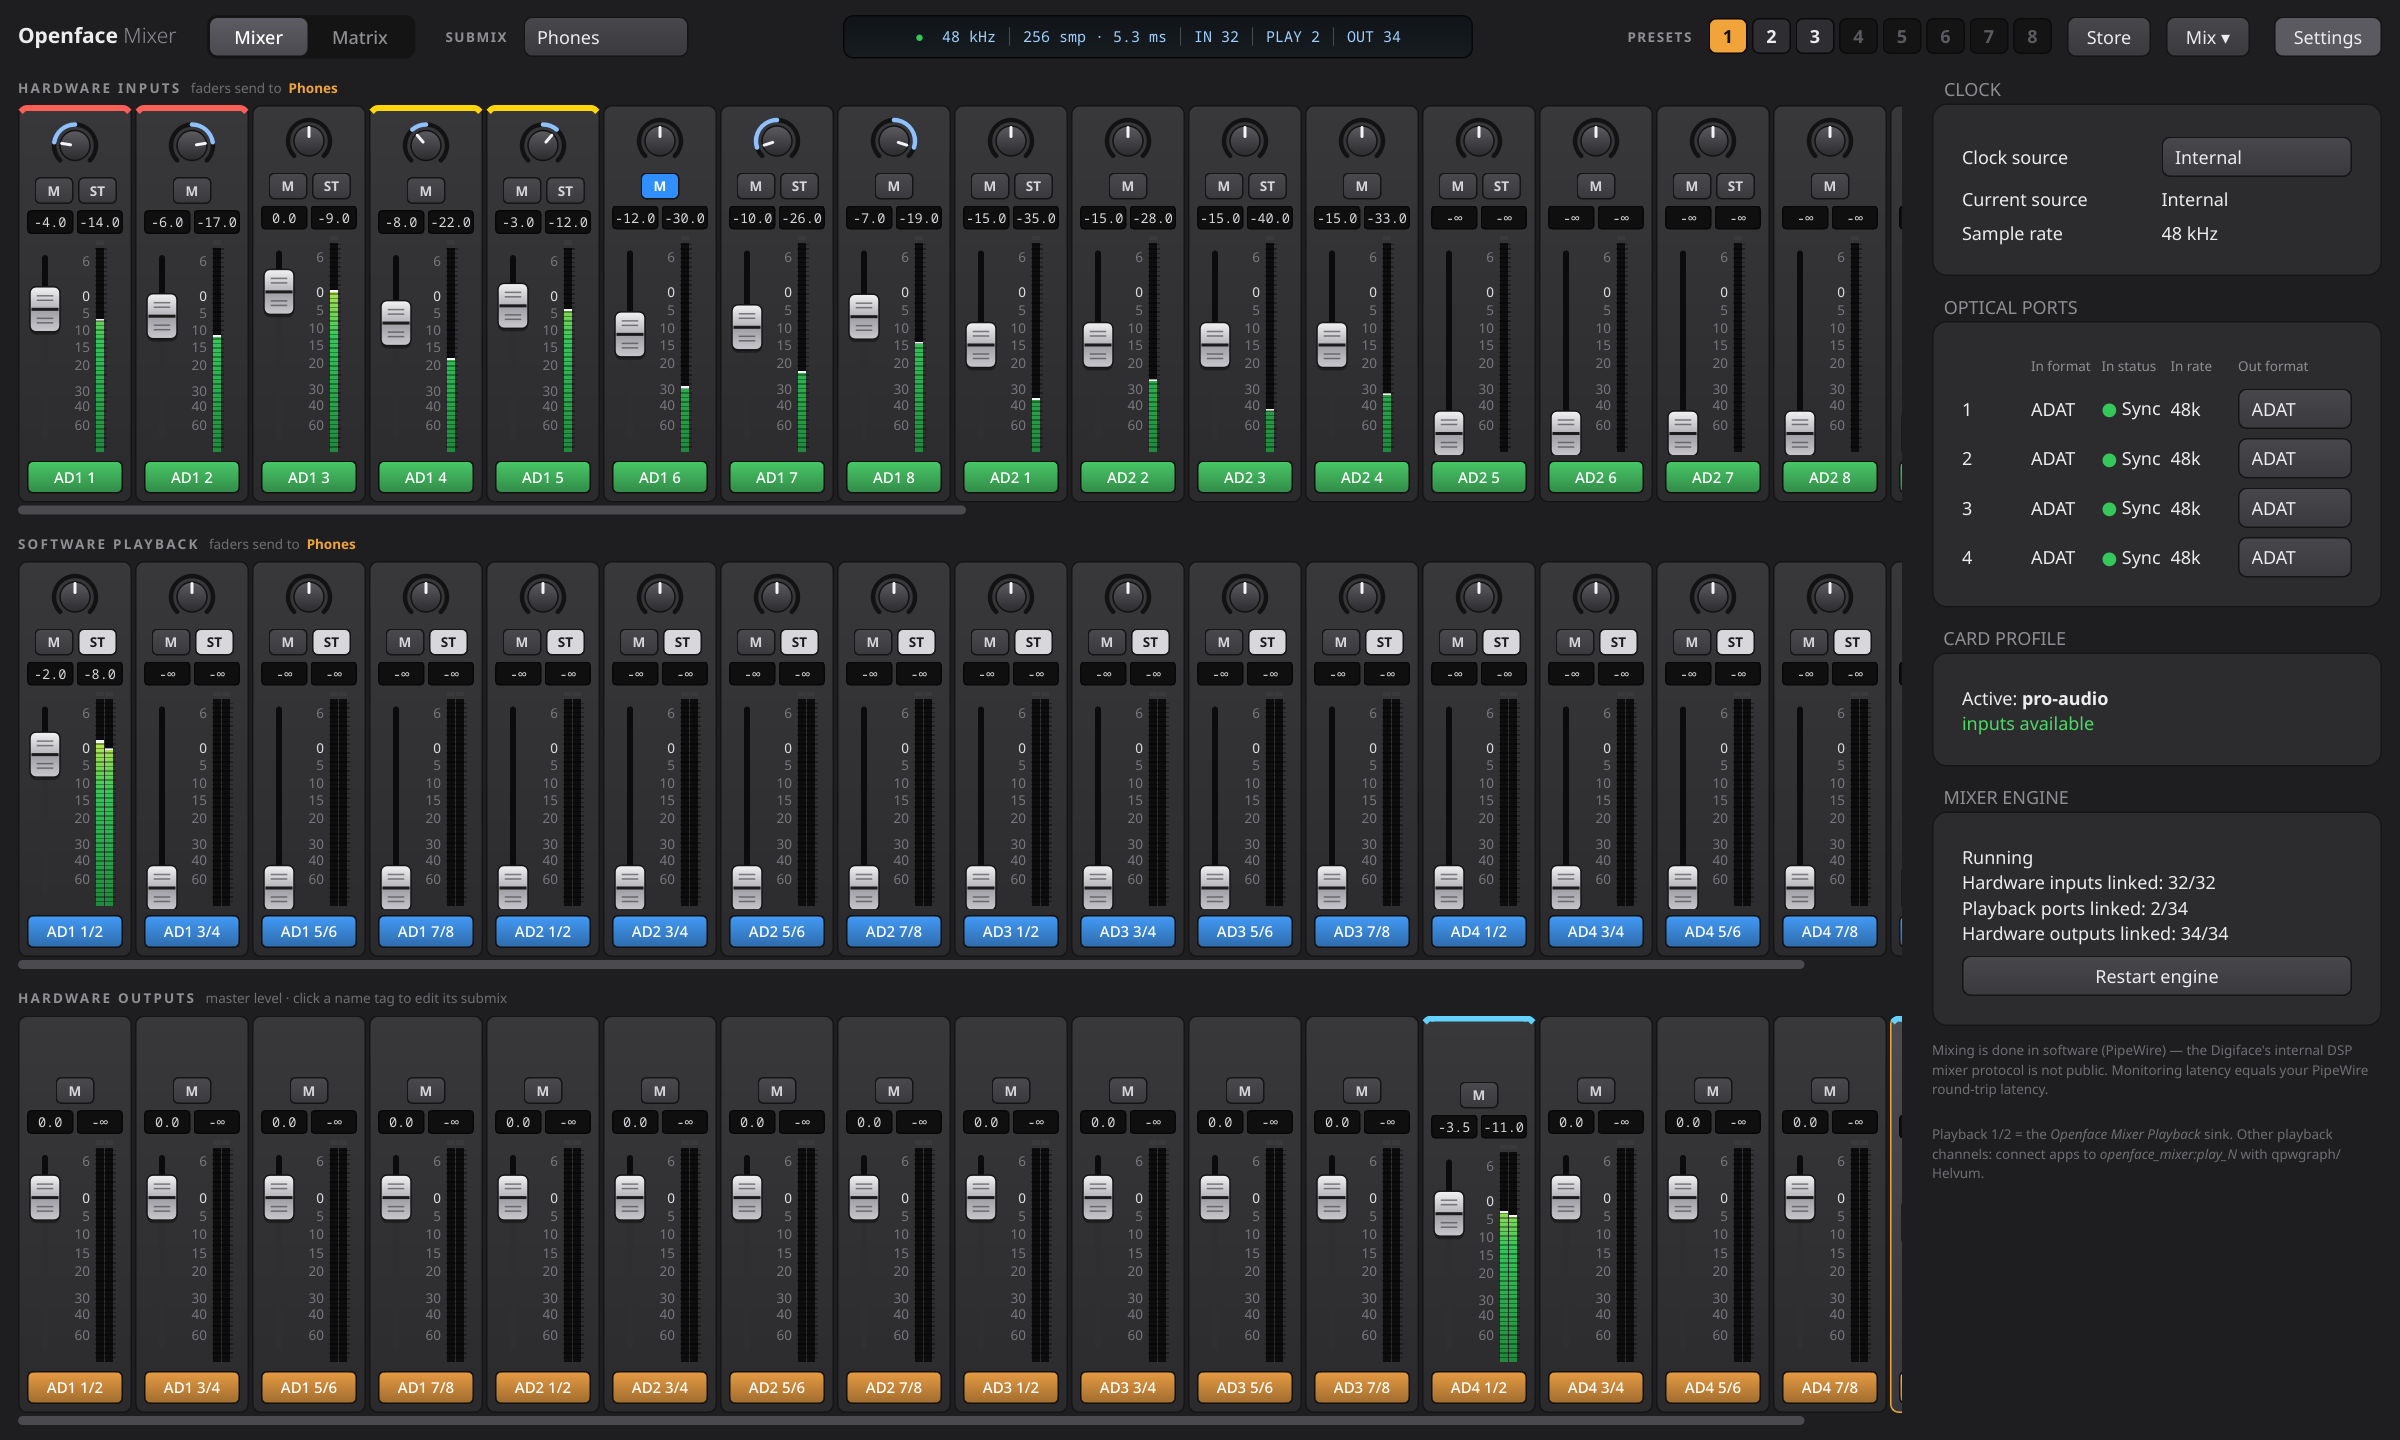
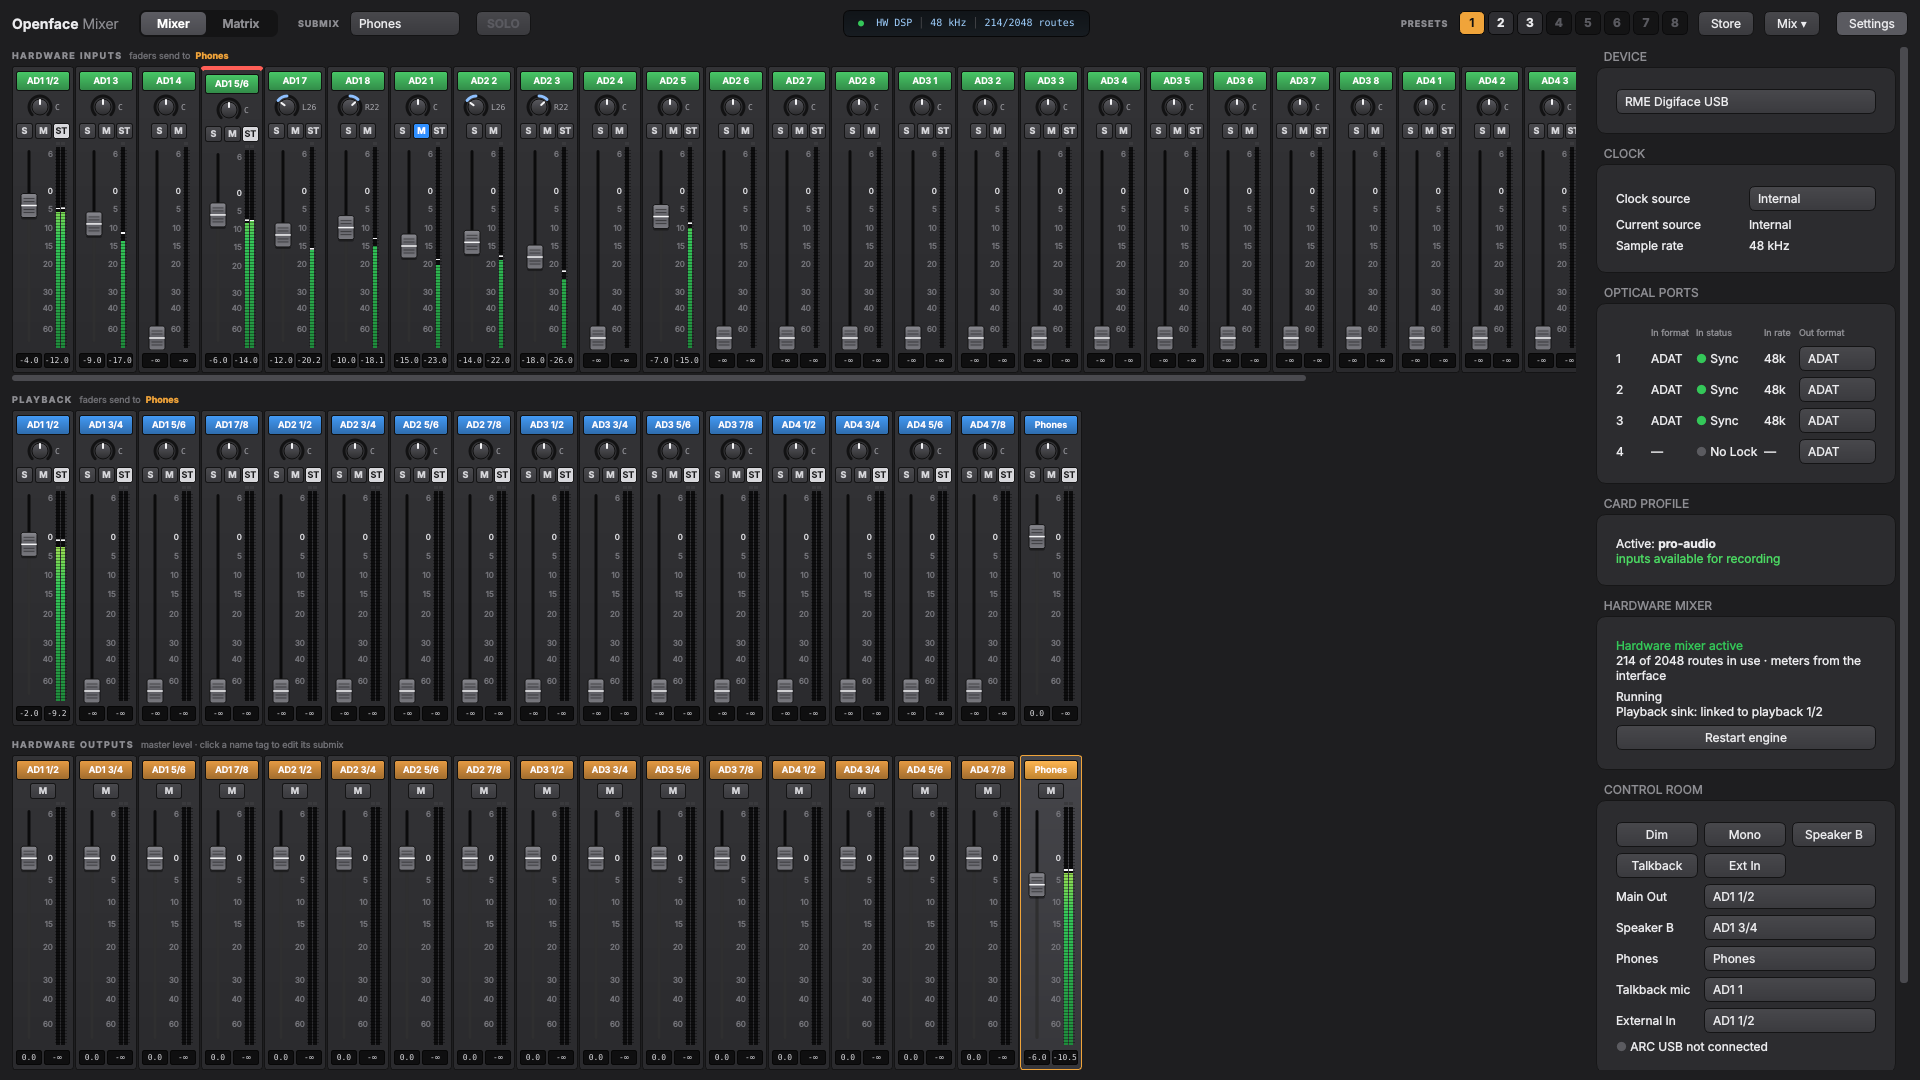
README: bring the text and screenshots up to date
The screenshots predated hardware DSP mode and still said mixing happened in
PipeWire; re-render them from the current GUI. Fix text that only described
the Digiface or missed the 802's output level setting, the FireWire udev rule
and how the ARC phones keys behave.

Claude-Session: https://claude.ai/code/session_016mYP77rZkdKQP61M1jXsTP

diff --git a/README.md b/README.md
@@ -17,20 +17,21 @@ Digiface and over FireWire on the 802, with the familiar TotalMix workflow.
 - **Fader groups:** 4 groups that move together relatively. Hold Shift to move one fader alone.
 - **Channel strips:** compact, laid out like Pro Tools: name tag on top, pan with its value,
   solo, mute, stereo link, fader with its scale beside the peak meter, and level and peak
-  readouts at the bottom. Output master faders below.
+  readouts at the bottom. The Hardware Outputs row holds the output master faders.
 - **Solo like TotalMix:** solo-in-place, post fader, in the current submix only. The **SOLO**
   button in the top bar lights while anything is soloed and switches all solos off and back on.
 - **Hardware panel:** clock source, ADAT or S/PDIF per optical port, and input lock/sync/rate status.
   On the Fireface 802 also the AES and optical options of TotalMix's settings dialog.
 - **Channel settings (Fireface 802):** the ⚙ on each hardware input and output strip, like
-  TotalMix's wrench: phase invert, 48V and Inst on AN 9–12, level and gain on AN 1–8.
+  TotalMix's wrench: phase invert on every channel, level and gain on inputs AN 1–8, 48V and
+  Inst on inputs AN 9–12, and level on outputs AN 1–8.
 - **Several interfaces:** pick the device in the settings panel. Each has its own mix, presets
   and engine, so a Digiface and an 802 can run side by side.
 - **Always on:** the mix keeps running with the window closed. A small engine service restores
   it at login.
 
-> **How mixing works:** Openface Mixer drives the Digiface's own DSP mixer over USB, like
-> TotalMix, so input monitoring has no added latency and the mix keeps running in the
+> **How mixing works:** Openface Mixer drives the interface's own DSP mixer (over USB on the
+> Digiface, over FireWire on the 802), like TotalMix, so input monitoring has no added latency and the mix keeps running in the
 > interface even with the computer idle. There is no software mixing. See
 > [docs/ARCHITECTURE.md](docs/ARCHITECTURE.md) and [docs/HARDWARE.md](docs/HARDWARE.md).
 
@@ -76,10 +77,11 @@ This installs to `~/.local`, adds **Openface Mixer** to your app menu, and enabl
 1. Open **Openface Mixer**.
 2. Monitoring works in any PipeWire profile, because the mix happens in the interface. To
    *record* all 32 inputs in apps, switch the Digiface to the **Pro Audio** profile: click
-   *Record all inputs* in the settings panel, or pick the profile in your sound settings.
+   *Record all inputs* in the settings panel (Digiface only), or pick the profile in your sound
+   settings.
 3. To send desktop audio through the mixer, select **Openface Mixer Playback** as your output
-   device. It feeds playback channels 1/2. Send other apps or a DAW to the Digiface's own output
-   channels (playback channel *n* = Digiface output *n*) with qpwgraph or Helvum.
+   device. It feeds playback channels 1/2. Send other apps or a DAW to the interface's own output
+   channels (playback channel *n* = output *n*) with qpwgraph or Helvum.
 4. Click an output's name tag (bottom row) to select its submix, then raise input and playback
    faders. Alternatively, click cells in the **Matrix** view.
 
@@ -142,7 +144,7 @@ and reverb/echo off, because it has no controls for them yet. Don't run
 | `~/.config/openface-mixer/state.json` | Current mix and UI state (Digiface) |
 | `~/.config/openface-mixer/presets.json` | The 8 preset slots (Digiface) |
 | `~/.config/openface-mixer/matrix.bin` | Flattened gain matrix that the engine loads at startup (Digiface) |
-| `~/.config/openface-mixer/ff802/` | The same three files for the Fireface 802, plus its settings |
+| `~/.config/openface-mixer/ff802/` | The same three files for the Fireface 802 (its clock, AES and channel settings are saved in its `state.json` and `matrix.bin`) |
 | `~/.config/openface-mixer/device` | The device the GUI opened last |
 | `~/.cache/openface-mixer/engine-<device>.log` | Engine log (only when started without systemd) |
 
@@ -165,10 +167,12 @@ Hardware notes are in [docs/HARDWARE.md](docs/HARDWARE.md).
 - Fireface 802 support follows the protocol documented by snd-firewire-ctl-services and has
   not been checked on a unit yet (see [docs/HARDWARE.md](docs/HARDWARE.md#not-verified-on-hardware-yet)).
   It has no EQ, dynamics, auto level or reverb/echo controls yet; those DSP effects are
-  switched off. The ARC USB's two phones keys both select PH 9/10.
+  switched off. The ARC USB's two phones keys both select the one Phones pair set in the
+  Control Room box (PH 9/10 by default), not PH 9/10 and PH 11/12 separately.
 - The hardware mixer allows 2048 active routes; the settings panel warns if a mix needs more.
-- The mixer needs USB access to the Digiface (the udev rule installed by `make install`).
-  Without it nothing is mixed, and the settings panel says why.
+- The mixer needs USB access to the Digiface and FireWire access to the 802 (the udev rules
+  `make install` installs, which need sudo once). Without them nothing is mixed, and the
+  settings panel says why.
 - Meters come from the interface itself: inputs, playback and the hardware outputs (post mix).
 - Solo has no PFL / live mode or exclusive mode yet.
 - No EQ, dynamics or reverb on the Digiface: its DSP has no effects.
